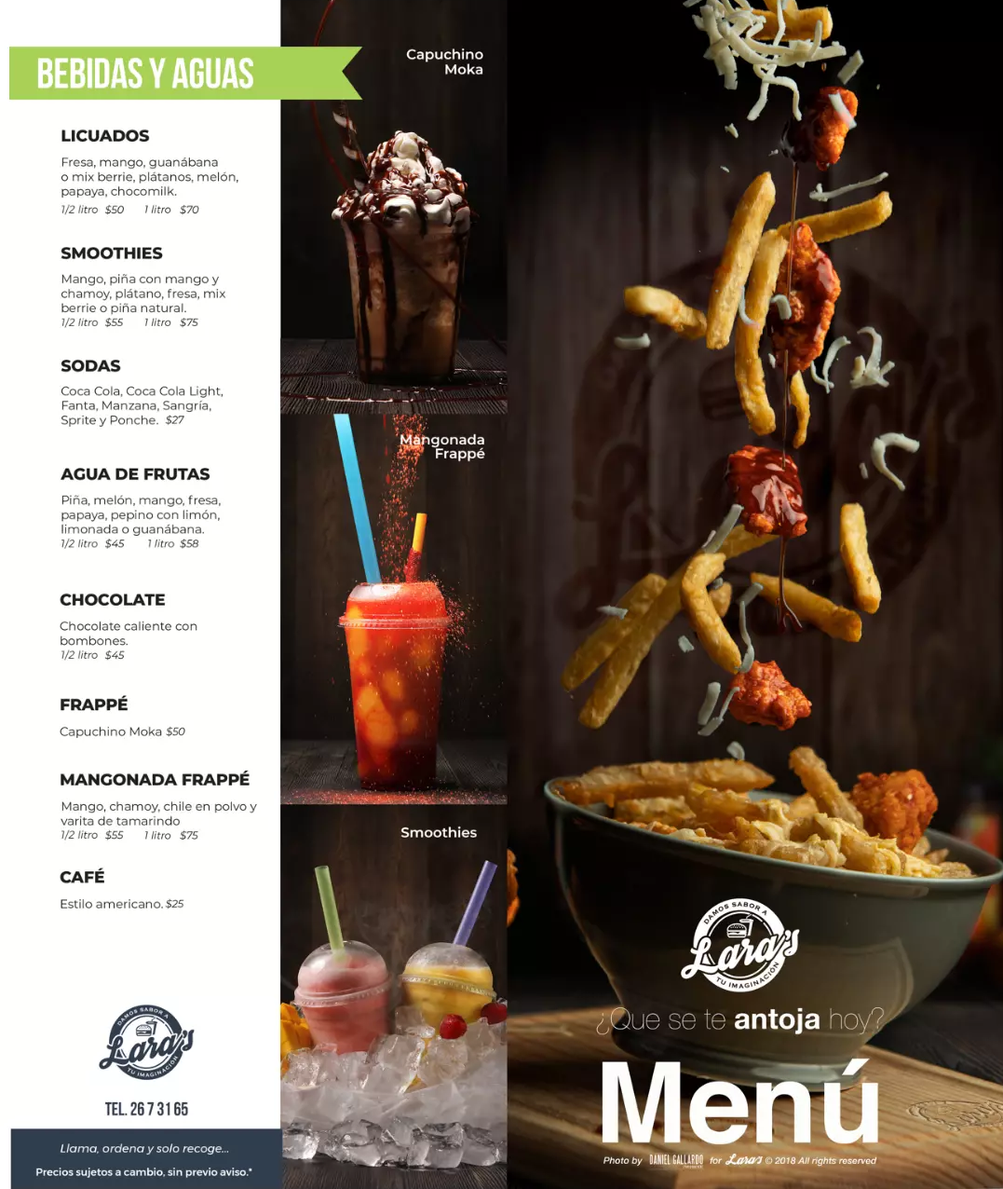
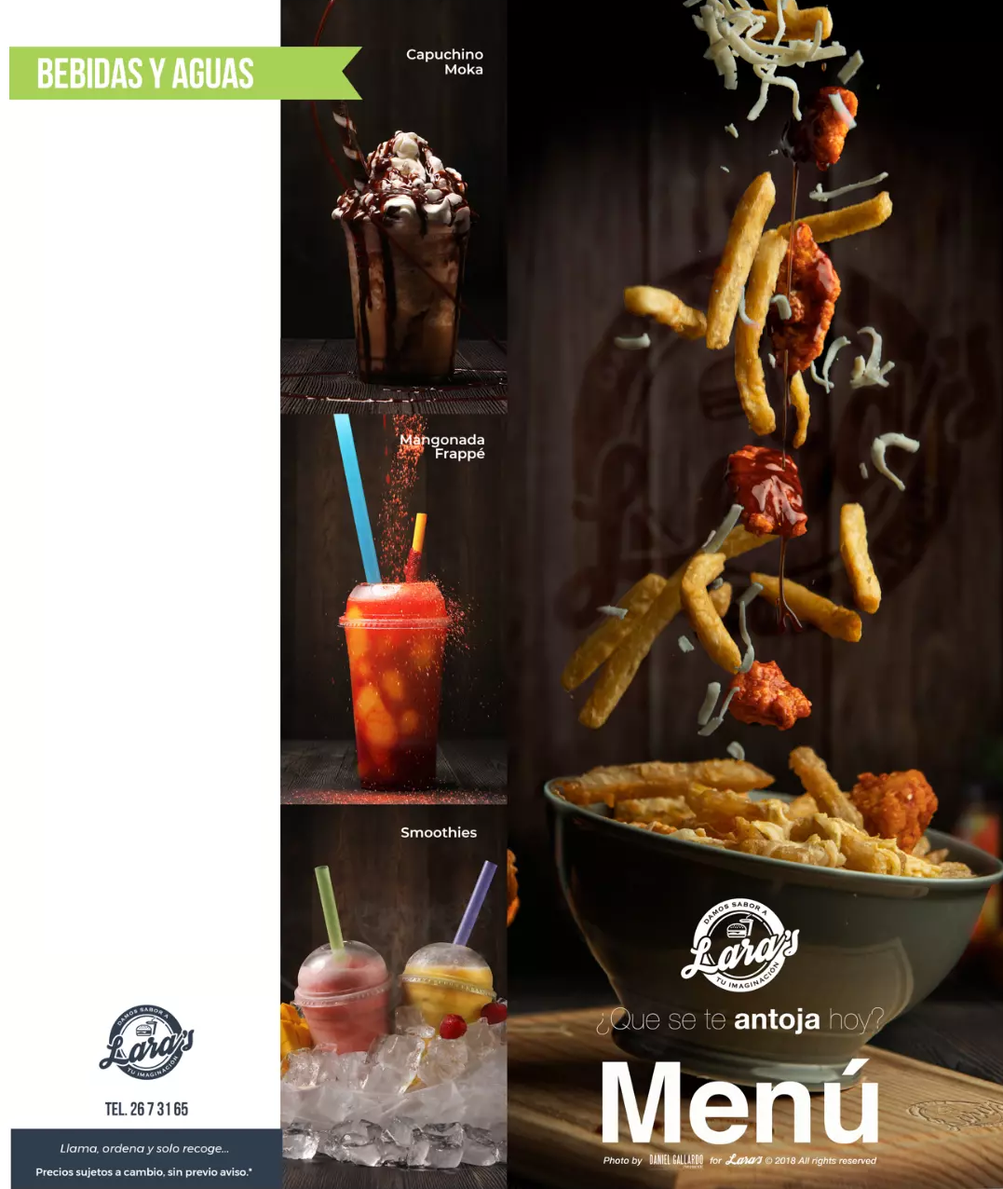
Frontend V3.1 Menu fixed

diff --git a/frontend/src/pages/public/MenuPage.tsx b/frontend/src/pages/public/MenuPage.tsx
@@ -1,99 +1,112 @@
-import React, { useCallback } from 'react';
+import React, { useCallback, useRef, useState, useEffect } from 'react';
 import { Link } from 'react-router-dom';
 import { ArrowLeft, ChevronLeft, ChevronRight, Instagram, Facebook } from 'lucide-react';
 import useEmblaCarousel from 'embla-carousel-react';
 
-// ===== MENU-1: BEBIDAS Y AGUAS (Cyan overlays) =====
+// Container height at 400px width = ~518px. Each 1% = ~5.2px
+// Pattern: 7% gaps (~36px), heights 28-32px, fonts 7px, icons 20px
+
+// ===== MENU-1: BEBIDAS Y AGUAS =====
+// Left column: 13%, 21%, 29%, 37%, 45%, 53%, 61%, 69% (8% gaps = ~41px)
 const bebidasItems = [
-    { id: 'licuados', name: 'LICUADOS', description: 'Fresa, mango, guanábana o mix berrie, plátanos, melón, papaya, chocomilk.\n1/2 litro $50    1 litro $70', top: '14%', left: '5%', width: '22%', height: 'auto', fontSize: '9px' },
-    { id: 'smoothies', name: 'SMOOTHIES', description: 'Mango, piña con mango y chamoy, plátano, fresa, mix berrie o piña natural.\n1/2 litro $55    1 litro $75', top: '23%', left: '5%', width: '22%', height: 'auto', fontSize: '9px' },
-    { id: 'sodas', name: 'SODAS', description: 'Coca Cola, Coca Cola Light, Fanta, Manzana, Sangría, Sprite y Ponche. $27', top: '31.8%', left: '5%', width: '22%', height: 'auto', fontSize: '9px' },
-    { id: 'agua-frutas', name: 'AGUA DE FRUTAS', description: 'Piña, melón, mango, fresa, papaya, pepino con limón, limonada o guanábana.\n1/2 litro $45    1 litro $58', top: '40%', left: '5%', width: '22%', height: 'auto', fontSize: '9px' },
-    { id: 'chocolate', name: 'CHOCOLATE', description: 'Chocolate caliente con bombones.\n1/2 litro $45', top: '49.9%', left: '5%', width: '22%', height: 'auto', fontSize: '9px' },
-    { id: 'frappe', name: 'FRAPPÉ', description: 'Capuchino Moka $50', top: '57%', left: '5%', width: '22%', height: '30px', fontSize: '9px' },
-    { id: 'mangonada-frappe', name: 'MANGONADA FRAPPÉ', description: 'Mango, chamoy, chile en polvo y varita de tamarindo\n1/2 litro $55    1 litro $75', top: '63.6%', left: '5%', width: '22%', height: '55px', fontSize: '9px' },
-    { id: 'cafe', name: 'CAFÉ', description: 'Estilo americano. $25', top: '73%', left: '5%', width: '22%', height: 'auto', fontSize: '9px' },
+    { id: 'licuados', name: 'LICUADOS', description: 'Fresa, mango, guanábana, mix berrie, plátanos, melón, papaya. 1/2L $50 | 1L $70', top: '13%', left: '4%', width: '23%', height: '38px', fontSize: '7px' },
+    { id: 'smoothies', name: 'SMOOTHIES', description: 'Mango, piña con chamoy, plátano, fresa, mix berrie. 1/2L $55 | 1L $75', top: '21%', left: '4%', width: '23%', height: '38px', fontSize: '7px' },
+    { id: 'sodas', name: 'SODAS', description: 'Coca Cola, Fanta, Manzana, Sangría, Sprite, Ponche. $27', top: '29%', left: '4%', width: '23%', height: '32px', fontSize: '7px' },
+    { id: 'agua-frutas', name: 'AGUA DE FRUTAS', description: 'Piña, melón, mango, fresa, papaya, pepino, limonada. 1/2L $45 | 1L $58', top: '37%', left: '4%', width: '23%', height: '38px', fontSize: '7px' },
+    { id: 'chocolate', name: 'CHOCOLATE', description: 'Chocolate caliente con bombones. 1/2L $45', top: '45%', left: '4%', width: '23%', height: '28px', fontSize: '7px' },
+    { id: 'frappe', name: 'FRAPPÉ', description: 'Capuchino Moka $50', top: '53%', left: '4%', width: '23%', height: '24px', fontSize: '7px' },
+    { id: 'mangonada-frappe', name: 'MANGONADA FRAPPÉ', description: 'Mango, chamoy, chile en polvo y tamarindo. 1/2L $55 | 1L $75', top: '60%', left: '4%', width: '23%', height: '40px', fontSize: '7px' },
+    { id: 'cafe', name: 'CAFÉ', description: 'Estilo americano. $25', top: '69%', left: '4%', width: '23%', height: '24px', fontSize: '7px' },
 ];
 
-// ===== MENU-2: SNACKS (Pink overlays) =====
+// ===== MENU-2: SNACKS =====
+// Left column: 12%, 20%, 28%, 36%, 44%, 52%, 60% (8% gaps)
 const snacksItems = [
-    { id: 'sandwich-turkey', name: 'SÁNDWICH \nTURKEY', description: 'Mayonesa, aguacate, tomate, lechuga, jamón de pavo, quesos. $48', top: '12%', left: '2%', width: '23%', height: '43px', fontSize: '8.2px', icon: 'chicken', iconSize: '26px', iconTop: '1px', iconRight: '1px' },
-    { id: 'sandwich-veggie', name: 'SÁNDWICH \nVEGGIE', description: 'Mayonesa, aguacate, tomate, lechuga, bologna, quesos. $55', top: '19.6%', left: '2%', width: '23%', height: '43px', fontSize: '8.5px', icon: 'veggie', iconSize: '26px', iconTop: '1px', iconRight: '1px' },
-    { id: 'sandwich-pollo', name: 'SÁNDWICH \nDE POLLO', description: 'Mayonesa, aguacate, tomate, lechuga, pechuga de pollo marinado especial, quesos. $60', top: '27.3%', left: '2%', width: '23%', height: 'auto', fontSize: '8.5px', icon: 'chicken', iconSize: '26px', iconTop: '1px', iconRight: '1px' },
-    { id: 'sincronizada-res', name: 'SINCRONIZADA \nDE RES/POLLO', description: 'Carne de res salteada con morrón y cebolla, quesos, tortilla de harina. $98', top: '35.5%', left: '2%', width: '23%', height: 'auto', fontSize: '8.5px', icon: 'cow', iconSize: '26px', iconTop: '1px', iconRight: '1px' },
-    { id: 'sincronizada-veg', name: 'SINCRONIZADA \nVEGETARIANA', description: 'Fajita de gluten al jengibre salteada con morrón, cebolla, quesos, tortilla de harina. $115', top: '43.58%', left: '2%', width: '23%', height: 'auto', fontSize: '8.3px', icon: 'veggie', iconSize: '26px', iconTop: '1px', iconRight: '1px' },
-    { id: 'tenders', name: 'TENDERS', description: 'Pechuga de pollo, quesos, papas a la francesa incluye refresco. Elige tu aderezo: Ranch, Búfalo, Laras, Salsa habanera y/o limón. $160', top: '52%', left: '2%', width: '23%', height: '45px', fontSize: '8.5px', icon: 'chicken', iconSize: '26px', iconTop: '1px', iconRight: '1px' },
-    { id: 'boneless-snack', name: 'BONELESS', description: 'Papas a la francesa, \naderezo Ranch, zanahoria y Apio. $125', top: '59.6%', left: '2%', width: '23%', height: 'auto', fontSize: '8.5px', icon: 'chicken', iconSize: '26px', iconTop: '1px', iconRight: '1px' },
+    { id: 'sandwich-turkey', name: 'SÁNDWICH TURKEY', description: 'Mayonesa, aguacate, tomate, lechuga, jamón pavo, quesos. $48', top: '12%', left: '2%', width: '23%', height: '40px', fontSize: '7px', icon: 'chicken', iconSize: '20px' },
+    { id: 'sandwich-veggie', name: 'SÁNDWICH VEGGIE', description: 'Mayonesa, aguacate, tomate, lechuga, bologna, quesos. $55', top: '20%', left: '2%', width: '23%', height: '40px', fontSize: '7px', icon: 'veggie', iconSize: '20px' },
+    { id: 'sandwich-pollo', name: 'SÁNDWICH POLLO', description: 'Mayonesa, aguacate, tomate, lechuga, pechuga pollo, quesos. $60', top: '28%', left: '2%', width: '23%', height: '46px', fontSize: '7px', icon: 'chicken', iconSize: '20px' },
+    { id: 'sincronizada-res', name: 'SINCRONIZADA RES', description: 'Carne de res con morrón, cebolla, quesos, tortilla. $98', top: '35.8%', left: '2%', width: '23%', height: '40px', fontSize: '7px', icon: 'cow', iconSize: '20px' },
+    { id: 'sincronizada-veg', name: 'SINCRONIZADA VEG', description: 'Fajita de gluten al jengibre con morrón, cebolla, quesos. $115', top: '42.3%', left: '2%', width: '23%', height: '40px', fontSize: '7px', icon: 'veggie', iconSize: '20px' },
+    { id: 'tenders', name: 'TENDERS', description: 'Pechuga, quesos, papas, refresco. Aderezo a elegir. $160', top: '49.8%', left: '2%', width: '23%', height: '32px', fontSize: '7px', icon: 'chicken', iconSize: '20px' },
+    { id: 'boneless-snack', name: 'BONELESS', description: 'Papas a la francesa, \naderezo Ranch, zanahoria y Apio. $125', top: '57%', left: '2%', width: '23%', height: '32px', fontSize: '7px', icon: 'chicken', iconSize: '20px' },
 ];
 
-// ===== MENU-2: PAPAS (Blue overlays) =====
+// ===== MENU-2: PAPAS =====
+// Second column: 26%, 34%, 42%, 50%, 58% (8% gaps)
 const papasItems = [
-    { id: 'papas', name: 'PAPAS', description: 'A la francesa naturales. $49\nA la francesa con queso y aderezo Laras. $60', top: '28%', left: '26.5%', width: '22%', height: 'auto', fontSize: '8.6px' },
-    { id: 'beef-bowl', name: 'BEEF BOWL', description: 'Papas a la francesa con queso, aderezo Laras con carne. $115', top: '35.5%', left: '26.5%', width: '22%', height: '40px', fontSize: '8.7px', icon: 'cow', iconSize: '26px', iconTop: '1px', iconRight: '1px' },
-    { id: 'salchipapas', name: 'SALCHIPAPAS', description: 'Papas a la francesa con \nqueso, aderezo Laras con salchicha veggie. $120', top: '43%', left: '26.5%', width: '22%', height: 'auto', fontSize: '8.5px', icon: 'veggie', iconSize: '26px', iconTop: '1px', iconRight: '1px' },
-    { id: 'boneless-bowl', name: 'BONELESS \nBOWL', description: 'Papas a la francesa con queso, aderezo Laras, boneless bañados en salsa búfalo. $140', top: '51%', left: '26.5%', width: '22%', height: '59px', fontSize: '8px', icon: 'chicken', iconSize: '26px', iconTop: '1px', iconRight: '1px' },
-    { id: 'chicken-bowl', name: 'CHICKEN BOWL', description: 'Papas a la francesa con \nqueso, aderezo Laras con \npollo. $115', top: '60.2%', left: '26.5%', width: '22%', height: 'auto', fontSize: '8px', icon: 'chicken', iconSize: '26px', iconTop: '1px', iconRight: '1px' },
+    { id: 'papas', name: 'PAPAS', description: 'Naturales $49 | \nCon queso y aderezo \n$60', top: '27.7%', left: '26%', width: '22%', height: '32px', fontSize: '7px', icon: 'fries', iconSize: '18px' },
+    { id: 'beef-bowl', name: 'BEEF BOWL', description: 'Papas con queso, \naderezo Laras, carne. \n$115', top: '35%', left: '26%', width: '22%', height: '35px', fontSize: '7px', icon: 'cow', iconSize: '20px' },
+    { id: 'salchipapas', name: 'SALCHIPAPAS', description: 'Papas con queso, \naderezo, salchicha veggie. $120', top: '42%', left: '26%', width: '22%', height: '42px', fontSize: '7px', icon: 'veggie', iconSize: '20px' },
+    { id: 'boneless-bowl', name: 'BONELESS BOWL', description: 'Papas con queso, aderezo, boneless búfalo. $140', top: '49.5%', left: '26%', width: '22%', height: '36px', fontSize: '7px', icon: 'chicken', iconSize: '20px' },
+    { id: 'chicken-bowl', name: 'CHICKEN BOWL', description: 'Papas con queso, aderezo Laras, pollo. $115', top: '56.8%', left: '26%', width: '22%', height: '34px', fontSize: '7px', icon: 'chicken', iconSize: '20px' },
 ];
 
-// ===== MENU-2: TORTAS VEGETARIANAS (Green overlays) =====
+// ===== MENU-2: TORTAS VEGETARIANAS (Green) =====
+// Right side: 50%, 60%, 70%, 80% (10% gaps for larger cards)
 const tortasVegItems = [
-    { id: 'milanesa-enchilado', name: 'MILANESA \nDE GLUTEN \nENCHILADO', description: 'Mayonesa, tomate, aguacate, quesos, lechuga y aderezo Laras.\n$115', top: '50%', left: '52.6%', width: '21%', height: '66px', fontSize: '8.3px', icon: 'veggie', iconSize: '26px', iconTop: '1px', iconRight: '1px' },
-    { id: 'milanesa-empanizado', name: 'MILANESA \nDE GLUTEN \nEMPANIZADO', description: 'Mayonesa, tomate, aguacate, quesos, lechuga y aderezo Laras.\n$115', top: '50%', left: '76.3%', width: '20%', height: '63.4px', fontSize: '7.69px', icon: 'veggie', iconSize: '26px', iconTop: '1px', iconRight: '1px' },
-    { id: 'fajita-gluten', name: 'FAJITA \nDE GLUTEN \nAL JENGIBRE', description: 'Mayonesa, tomate, morrón, cebolla, aguacate, quesos, lechuga y aderezo Laras.\n$115', top: '62%', left: '50.052%', width: '29%', height: '74.3px', fontSize: '9px', icon: 'veggie', iconSize: '26px', iconTop: '1px', iconRight: '1px' },
-    { id: 'gluten-pastor', name: 'GLUTEN \nAL PASTOR', description: 'Trocitos de piña, mayonesa, tomate, aguacate, queso, aderezo Laras y cebolla.\n$115', top: '75.4%', left: '50.052%', width: '29%', height: '63px', fontSize: '9px', icon: 'veggie', iconSize: '26px', iconTop: '1px', iconRight: '1px' },
+    { id: 'milanesa-enchilado', name: 'MILANESA GLUTEN ENCHILADO', description: 'Mayonesa, tomate, aguacate, quesos, lechuga. \n$115', top: '50%', left: '52%', width: '23.93%', height: '55px', fontSize: '7px', icon: 'veggie', iconSize: '20px' },
+    { id: 'milanesa-empanizado', name: 'MILANESA GLUTEN EMPANIZADO', description: 'Mayonesa, tomate, aguacate, quesos, lechuga. \n$115', top: '50%', left: '76%', width: '22%', height: '55px', fontSize: '7px', icon: 'veggie', iconSize: '20px' },
+    { id: 'fajita-gluten', name: 'FAJITA GLUTEN JENGIBRE', description: 'Mayonesa, tomate, morrón, cebolla, aguacate, quesos. \n$115', top: '62%', left: '50%', width: '29.5%', height: '63px', fontSize: '8px', icon: 'veggie', iconSize: '20px' },
+    { id: 'gluten-pastor', name: 'GLUTEN AL PASTOR', description: 'Trocitos de piña, mayonesa, \ntomate, aguacate, queso. \n$115', top: '75.3%', left: '50%', width: '29.5%', height: '56px', fontSize: '8px', icon: 'veggie', iconSize: '20px' },
 ];
 
-// ===== MENU-3: HAMBURGUESAS LEFT SIDE (Gray overlays) =====
+// ===== MENU-3: HAMBURGUESAS =====
+// Two columns: 14%, 24%, 34%, 44% and 54%, 64% (10% gaps for content)
 const hamburguesasItems = [
-    { id: 'classic-beef', name: 'CLASSIC BEEF', description: 'Carne de res preparación especial 1/4 de libra, \nmostaza, mayonesa, aguacate, jamón de pavo, mezcla de quesos, tomate, lechuga, pepinillos y aderezo Laras. $98', top: '15%', left: '2%', width: '22%', height: '70px', fontSize: '7.8px', icon: 'cow', iconSize: '26px', iconTop: '1px', iconRight: '1px' },
-    { id: 'classic-veggie', name: 'CLASSIC VEGGIE', description: 'Carne vegetal preparación especial 1/4 de libra, \nmostaza, mayonesa, jamón vegetariano, mezcla de quesos, tomate, lechuga, pepinillos y aderezo Laras. $115', top: '15%', left: '25%', width: '22.3%', height: '70px', fontSize: '7.8px', icon: 'veggie', iconSize: '26px', iconTop: '1px', iconRight: '1px' },
-    { id: 'hamburguesa-doble', name: 'HAMBURGUESA \nDOBLE', description: 'Doble carne de res \npreparación especial 1/4 de libra, mostaza, mayonesa, aguacate, jamón de pavo, mezcla de quesos, tomate, lechuga, pepinillos y aderezo Laras. $125', top: '27%', left: '2%', width: '22.3%', height: '79px', fontSize: '7.8px', icon: 'cow' },
-    { id: 'hamburguesa-doble-veggie', name: 'HAMBURGUESA \nDOBLE VEGGIE', description: 'Doble carne vegetal \npreparación especial 1/4 de libra, mostaza, mayonesa, aguacate, jamón vegetariano, mezcla de quesos, tomate, lechuga, pepinillos y aderezo Laras. $135', top: '27%', left: '25%', width: '22.3%', height: '79px', fontSize: '7.8px', icon: 'veggie', iconSize: '26px', iconTop: '1px', iconRight: '1px' },
-    { id: 'salchi-burguer', name: 'SALCHI-BURGUER', description: 'Carne de res preparación \nespecial 180 gr., mostaza, mayonesa, aguacate, jamón de pavo, salchichas, mezcla de quesos, tomate, lechuga, pepinillos y aderezo Laras. $130', top: '41.6%', left: '2%', width: '22.3%', height: '76px', fontSize: '7.8px', icon: 'cow' },
-    { id: 'salchi-burguer-veggie', name: 'SALCHI-BURGUER \nVEGGIE', description: 'Carne vegetariana preparado \nespecial, salchicha vegetal, mayonesa, mostaza pepinillos, tomate, lechuga, bologna, mezcla de 3 quesos y aderezo Laras. $140', top: '41.6%', left: '25%', width: '22.3%', height: '76px', fontSize: '7.8px', icon: 'veggie', iconSize: '26px', iconTop: '1px', iconRight: '1px' },
-    { id: 'hamburguesa-jalapeno', name: 'HAMBURGUESA \nJALAPEÑO', description: 'Carne de res preparación especial 180 gr., mostaza, mayonesa, aguacate, jamón de pavo, mezcla de quesos, tomate, lechuga, pepinillos y aderezo Laras. $115', top: '55%', left: '2%', width: '22.3%', height: '82px', fontSize: '8px', icon: 'cow' },
-    { id: 'hamburguesa-jalapeno-veggie', name: 'HAMBURGUESA \nJALAPEÑO VEGGIE', description: 'Carne vegetal preparación especial 180 gr., mostaza, mayonesa, aguacate, jamón vegetariano, mezcla de quesos, tomate, lechuga, pepinillos y aderezo Laras. $120', top: '55%', left: '25%', width: '22.3%', height: '82px', fontSize: '8px', icon: 'veggie', iconSize: '26px', iconTop: '1px', iconRight: '1px' },
+    { id: 'classic-beef', name: 'CLASSIC BEEF', description: 'Carne res 1/4 libra, \nmostaza, mayo, aguacate, quesos, tomate. $98', top: '18%', left: '2%', width: '22%', height: '45px', fontSize: '7px', icon: 'cow', iconSize: '20px' },
+    { id: 'classic-veggie', name: 'CLASSIC VEGGIE', description: 'Carne vegetal 1/4 libra, mostaza, mayo, quesos, tomate. $115', top: '18%', left: '25%', width: '22%', height: '45px', fontSize: '7px', icon: 'veggie', iconSize: '20px' },
+    { id: 'hamburguesa-doble', name: 'HAMBURGUESA DOBLE', description: 'Doble carne res, mostaza, mayo, aguacate, quesos. $125', top: '29%', left: '2%', width: '22%', height: '45px', fontSize: '7px', icon: 'cow', iconSize: '20px' },
+    { id: 'hamburguesa-doble-veggie', name: 'HAMBURGUESA DOBLE VEG', description: 'Doble carne vegetal, mostaza, mayo, quesos. $135', top: '29%', left: '25%', width: '22%', height: '45px', fontSize: '7px', icon: 'veggie', iconSize: '20px' },
+    { id: 'salchi-burguer', name: 'SALCHI-BURGUER', description: 'Carne res 180g, salchichas, mostaza, mayo, quesos. $130', top: '40%', left: '2%', width: '22%', height: '45px', fontSize: '7px', icon: 'cow', iconSize: '20px' },
+    { id: 'salchi-burguer-veggie', name: 'SALCHI-BURGUER VEG', description: 'Carne vegetal, salchicha vegetal, quesos. $140', top: '40%', left: '25%', width: '22%', height: '45px', fontSize: '7px', icon: 'veggie', iconSize: '20px' },
+    { id: 'hamburguesa-jalapeno', name: 'HAMBURGUESA JALAPEÑO', description: 'Carne res 180g, jalapeños, mayo, quesos. $115', top: '52%', left: '2%', width: '22%', height: '45px', fontSize: '7px', icon: 'cow', iconSize: '20px' },
+    { id: 'hamburguesa-jalapeno-veggie', name: 'HAMBURGUESA JALAPEÑO VEG', description: 'Carne vegetal 180g, jalapeños, quesos. $120', top: '52%', left: '25%', width: '22%', height: '45px', fontSize: '7px', icon: 'veggie', iconSize: '20px' },
 ];
 
-// ===== MENU-3: PARA LOS AMANTES DE LAS CARNES - RIGHT SIDE (Orange overlays) =====
+// ===== MENU-3: CARNES (Right side - Orange) =====
+// Right column: 38%, 50%, 62%, 74% (12% gaps)
 const carnesItems = [
-    { id: 'chicken-tender', name: 'CHICKEN TENDER \nBURGER', description: 'Tenders empanizados con \nsalsa búfalo, queso, lechuga, tomate y aderezo Laras. $138', top: '38%', left: '52%', width: '24%', height: '57px', fontSize: '8px', icon: 'chicken' },
-    { id: 'hamburguesa-bbq', name: 'HAMBURGUESA \nBBQ', description: 'Carne de res preparación \nespecial 180 gr., aderezada con salsa BBQ especial, mostaza, cebolla a la plancha, mayonesa, aguacate, jamón de pavo, mezcla de quesos, tomate, lechuga, pepinillos y aderezo Laras. $128', top: '47.128667%', left: '52%', width: '24%', height: '100px', fontSize: '8.5px', icon: 'cow' },
-    { id: 'hamburguesa-bbq-veggie', name: 'HAMBURGUESA \nBBQ VEGGIE', description: 'Carne vegetal preparación \nespecial 180 gr., aderezada con salsa BBQ especial, mostaza, mayonesa, aguacate, jamón vegetariano, mezcla de quesos, cebolla a la plancha, tomate, lechuga, pepinillos y aderezo Laras. $130', top: '63.28%', left: '52%', width: '24%', height: '98px', fontSize: '8px', icon: 'veggie', iconSize: '26px', iconTop: '1px', iconRight: '1px' },
-    { id: 'hamburguesa-hawaiana', name: 'HAMBURGUESA \nHAWAIANA', description: 'Carne de res preparación \nespecial 180 gr., rebanada de piña asada, salsa especial de piña, mostaza, mayonesa, aguacate, jamón de pavo, mezcla de quesos, tomate, lechuga y aderezo Laras. $130', top: '79.02%', left: '52%', width: '24%', height: '76px', fontSize: '8px', icon: 'cow' },
+    { id: 'chicken-tender', name: 'CHICKEN TENDER BURGER', description: 'Tenders con salsa búfalo, queso, lechuga, tomate. $138', top: '38%', left: '52%', width: '24%', height: '45px', fontSize: '7px', icon: 'chicken', iconSize: '20px', noBg: true },
+    { id: 'hamburguesa-bbq', name: 'HAMBURGUESA BBQ', description: 'Carne res 180g, salsa BBQ, cebolla, quesos. $128', top: '50%', left: '52%', width: '24%', height: '45px', fontSize: '7px', icon: 'cow', iconSize: '20px', noBg: true },
+    { id: 'hamburguesa-bbq-veggie', name: 'HAMBURGUESA BBQ VEG', description: 'Carne vegetal 180g, salsa BBQ, quesos. $130', top: '62%', left: '52%', width: '24%', height: '45px', fontSize: '7px', icon: 'veggie', iconSize: '20px', noBg: true },
+    { id: 'hamburguesa-hawaiana', name: 'HAMBURGUESA HAWAIANA', description: 'Carne res 180g, piña asada, salsa de piña, quesos. $130', top: '74%', left: '52%', width: '24%', height: '45px', fontSize: '7px', icon: 'cow', iconSize: '20px', noBg: true },
 ];
 
-// ===== MENU-4: TACOS LEFT SIDE (Dark overlays) =====
+// ===== MENU-4: TACOS =====
+// Two columns: 21%, 31% (10% gaps)
 const tacosItems = [
-    { id: 'tacos-res', name: 'TACOS DE \nCARNE DE RES', description: 'Con morrón y cebolla, \ncilantro y tortilla de maíz. $20 c/u', top: '21.8%', left: '2%', width: '23%', height: '55px', fontSize: '8px', icon: 'cow' },
-    { id: 'tacos-veg-enchilados', name: 'TACOS \nVEGETARIANOS \nENCHILADOS', description: 'Gluten enchilado salteado con morrón y cebolla. $25 c/u', top: '21.8%', left: '25%', width: '22%', height: '55px', fontSize: '8px', icon: 'veggie', iconSize: '26px', iconTop: '1px', iconRight: '1px' },
-    { id: 'tacos-vegetarianos', name: 'TACOS \nVEGETARIANOS', description: 'Gluten al jengibre salteado \ncon morrón y cebolla. $25 c/u', top: '32%', left: '2%', width: '22%', height: '55px', fontSize: '8px', icon: 'veggie', iconSize: '26px', iconTop: '1px', iconRight: '1px' },
-    { id: 'tacos-pastor-veggie', name: 'TACOS AL \nPASTOR VEGGIE', description: 'Salteados con trocitos \nde piña y cebolla y tortilla de maíz. $25 c/u', top: '32%', left: '25%', width: '22%', height: '55px', fontSize: '8px', icon: 'veggie', iconSize: '26px', iconTop: '1px', iconRight: '1px' },
+    { id: 'tacos-res', name: 'TACOS DE RES', description: 'Con morrón, cebolla, \ncilantro, tortilla maíz. \n$20 c/u', top: '21%', left: '2%', width: '23%', height: '42px', fontSize: '7px', icon: 'cow', iconSize: '20px' },
+    { id: 'tacos-veg-enchilados', name: 'TACOS VEG ENCHILADOS', description: 'Gluten enchilado con morrón y cebolla. $25 c/u', top: '21%', left: '25%', width: '22%', height: '38px', fontSize: '7px', icon: 'veggie', iconSize: '20px' },
+    { id: 'tacos-vegetarianos', name: 'TACOS VEGETARIANOS', description: 'Gluten al jengibre con morrón y cebolla. $25 c/u', top: '31%', left: '2%', width: '22%', height: '38px', fontSize: '7px', icon: 'veggie', iconSize: '20px' },
+    { id: 'tacos-pastor-veggie', name: 'TACOS AL PASTOR VEG', description: 'Con trocitos de piña, cebolla, tortilla maíz. \n$25 c/u', top: '31%', left: '25%', width: '22%', height: '41px', fontSize: '7px', icon: 'veggie', iconSize: '20px' },
 ];
 
-// ===== MENU-4: TORTAS CON CARNITA (Red overlays) =====
+// ===== MENU-4: TORTAS CON CARNITA =====
+// Left side: 50%, 60%, 70% (10% gaps)
 const tortasCarnitaItems = [
-    { id: 'fajita-beef', name: 'FAJITA BEEF', description: 'Carne de res marinado \nespecial, morrón, cebolla, mayonesa, tomate, aguacate, quesos, lechuga y aderezo Laras. $98', top: '53%', left: '2%', width: '22%', height: '65px', fontSize: '8px', icon: 'cow' },
-    { id: 'chicken-fajita', name: 'CHICKEN FAJITA', description: 'Pechuga de pollo \nmarinado especial, \nmorrón, cebolla, mayonesa, tomate, aguacate, quesos, lechuga y aderezo Laras. $98', top: '53%', left: '25%', width: '22%', height: '65px', fontSize: '8px', icon: 'chicken' },
-    { id: 'arrachera-cheese', name: 'ARRACHERA \nCHEESE STEAK', description: 'Arrachera americana, \nmorrón, cebolla, mayonesa, tomate, aguacate, quesos, lechuga y aderezo Laras. $135', top: '65.4%', left: '0%', width: '26.37%', height: '67px', fontSize: '8px', icon: 'cow' },
+    { id: 'fajita-beef', name: 'FAJITA BEEF', description: 'Carne res marinada, \nmorrón, cebolla, quesos. $98', top: '54%', left: '3.2%', width: '21.4%', height: '40px', fontSize: '7px', icon: 'cow', iconSize: '20px' },
+    { id: 'chicken-fajita', name: 'CHICKEN FAJITA', description: 'Pechuga pollo marinado, morrón, cebolla, quesos. $98', top: '54%', left: '26%', width: '20%', height: '40px', fontSize: '7px', icon: 'chicken', iconSize: '20px' },
+    { id: 'arrachera-cheese', name: 'ARRACHERA CHEESE STEAK', description: 'Arrachera americana, morrón, cebolla, quesos. $135', top: '66%', left: '2%', width: '24%', height: '38px', fontSize: '7px', icon: 'cow', iconSize: '20px' },
 ];
 
-// ===== MENU-4: COMBOS (Purple overlays) =====
+// ===== MENU-4: COMBOS =====
 const combosItems = [
-    { id: 'combo-1', name: 'COMBO #1', description: 'Fajita Beef o Chicken \nFajita, más agua del \ndía y papas. $115', top: '36%', left: '52%', width: '22%', height: 'auto', fontSize: '8.5px', icon: 'cow' },
-    { id: 'combo-2', name: 'COMBO #2', description: 'Torta de Arrachera \nCheese Steak, más \nagua del día y papas. $150', top: '43%', left: '52%', width: '22%', height: '45px', fontSize: '8.5px', icon: 'cow' },
-    { id: 'combo-3', name: 'COMBO #3', description: 'Torta vegetariana, más \nagua del día y papas. $135', top: '50.6%', left: '52%', width: '22%', height: '37.7px', fontSize: '8.5px', icon: 'veggie' },
-    { id: 'combo-4', name: 'COMBO #4', description: 'Sándwich con jamón vegetariano + \nChocomilk. $75', top: '56.7%', left: '52%', width: '22%', height: '43px', fontSize: '8.5px', icon: 'veggie' },
-    { id: 'combo-5', name: 'COMBO #5', description: 'Sincronizada \nvegetariana, más agua \ndel día y papas. $135', top: '36%', left: '74.5%', width: '22%', height: '43.4px', fontSize: '8.5px', icon: 'veggie' },
-    { id: 'combo-6', name: 'COMBO #6', description: 'Sincronizada de Res o \nPollo, más agua del día y papas. $115', top: '42.8%', left: '74.5%', width: '22%', height: '45.5px', fontSize: '8.5px', icon: 'cow' },
-    { id: 'combo-7', name: 'COMBO #7', description: 'Arma tu combo: Elige \ntu hamburguesa (el precio \nmarcado en el menú) + $15 y llévate una soda.', top: '50.3%', left: '74.5%', width: '22%', height: '49px', fontSize: '8.5px', icon: 'veggie' },
-    { id: 'combo-8', name: 'COMBO #8', description: 'Sándwich de jamón de \npavo + Chocomilk. $70', top: '58%', left: '74.5%', width: '22%', height: 'auto', fontSize: '8.5px', icon: 'veggie' },
-    { id: 'combo-9', name: 'COMBO #9', description: 'Sándwich de pollo + Chocomilk. $90', top: '62.9%', left: '74.5%', width: '22%', height: 'auto', fontSize: '8.5px', icon: 'cow' },
+    // Left column: 35%, 42%, 49%, 56% (7% gaps = ~36px each)
+    { id: 'combo-1', name: 'COMBO #1', description: 'Fajita Beef o Chicken + \nagua + papas. $115', top: '35%', left: '52%', width: '22%', height: '32px', fontSize: '7px', icon: 'cow', iconSize: '20px' },
+    { id: 'combo-2', name: 'COMBO #2', description: 'Arrachera Cheese \nSteak + agua + papas. \n$150', top: '42%', left: '52%', width: '22%', height: '32px', fontSize: '7px', icon: 'cow', iconSize: '20px' },
+    { id: 'combo-3', name: 'COMBO #3', description: 'Torta vegetariana + \nagua + papas. $135', top: '49%', left: '52%', width: '22%', height: '32px', fontSize: '7px', icon: 'veggie', iconSize: '20px' },
+    { id: 'combo-4', name: 'COMBO #4', description: 'Sándwich vegetariano \n+ Chocomilk. $75', top: '56%', left: '52%', width: '22%', height: '32px', fontSize: '7px', icon: 'veggie', iconSize: '20px' },
+    // Right column: 35%, 42%, 49%, 56%, 63% (7% gaps = ~36px each)
+    { id: 'combo-5', name: 'COMBO #5', description: 'Sincronizada vegetariana + \nagua + papas. $135', top: '35%', left: '75%', width: '23%', height: '32px', fontSize: '7px', icon: 'veggie', iconSize: '20px' },
+    { id: 'combo-6', name: 'COMBO #6', description: 'Sincronizada Res/Pollo + \nagua + papas. $115', top: '42%', left: '75%', width: '23%', height: '32px', fontSize: '7px', icon: 'cow', iconSize: '20px' },
+    { id: 'combo-7', name: 'COMBO #7', description: 'Tu hamburguesa + $15 = soda.', top: '49%', left: '75%', width: '23%', height: '32px', fontSize: '7px', icon: 'veggie', iconSize: '20px' },
+    { id: 'combo-8', name: 'COMBO #8', description: 'Sándwich pavo + \nChocomilk. $70', top: '56%', left: '75%', width: '23%', height: '28px', fontSize: '7px', icon: 'veggie', iconSize: '20px' },
+    { id: 'combo-9', name: 'COMBO #9', description: 'Sándwich pollo + \nChocomilk. $90', top: '62%', left: '75%', width: '23%', height: '28px', fontSize: '7px', icon: 'cow', iconSize: '20px' },
 ];
 
-// ===== MENU-4: SALSAS (Yellow overlays) =====
+// ===== MENU-4: SALSAS =====
 const salsasItems = [
-    { id: 'salsa', name: '', description: 'Salsa extra $10', top: '93.06%', left: '68.5%', width: '18%', height: 'auto', fontSize: '6px' },
+    { id: 'salsa', name: '', description: 'Salsa extra $10', top: '93.05%', left: '68%', width: '12%', height: '8px', fontSize: '6px', noBg: true, whiteText: true },
 ];
 
 // Menu pages configuration (reversed order: 4, 3, 2, 1)
@@ -107,6 +120,11 @@ const menuPages = [
 const MenuPage: React.FC = () => {
     const [emblaRef, emblaApi] = useEmblaCarousel({ loop: false, align: 'center', containScroll: false });
     const [selectedIndex, setSelectedIndex] = React.useState(0);
+
+    // Reference width at which overlays were designed (adjust if needed)
+    const REFERENCE_WIDTH = 400;
+    const [scale, setScale] = useState(1);
+    const menuCardRef = useRef<HTMLDivElement>(null);
 
     const scrollPrev = useCallback(() => {
         if (emblaApi) emblaApi.scrollPrev();
@@ -128,23 +146,42 @@ const MenuPage: React.FC = () => {
         return () => { emblaApi.off('select', onSelect); };
     }, [emblaApi]);
 
-    // Render overlay helper - each item can have: width, height, fontSize, icon
-    // Put price in the description string for full control
-    // icon: name of icon file in /images/food-icons/ (without extension)
-    // textColor: 'white' for light text on dark backgrounds
+    // Calculate scale factor based on container width
+    useEffect(() => {
+        const updateScale = () => {
+            if (menuCardRef.current) {
+                const width = menuCardRef.current.offsetWidth;
+                setScale(width / REFERENCE_WIDTH);
+            }
+        };
+
+        updateScale();
+
+        const resizeObserver = new ResizeObserver(updateScale);
+        if (menuCardRef.current) {
+            resizeObserver.observe(menuCardRef.current);
+        }
+
+        window.addEventListener('resize', updateScale);
+        return () => {
+            resizeObserver.disconnect();
+            window.removeEventListener('resize', updateScale);
+        };
+    }, []);
+
+    // Simple overlay renderer - no scaling needed here, parent uses CSS transform
     const renderOverlay = (item: any, bgColor: string, defaultWidth: string = '20%', textColor: string = 'dark') => (
         <div
             key={item.id}
-            className={`absolute ${bgColor} px-1 py-0.5`}
+            className={`absolute ${item.noBg ? '' : bgColor} px-1 py-0.5`}
             style={{
                 top: item.top,
                 left: item.left,
                 width: item.width || defaultWidth,
                 height: item.height || 'auto',
-                minHeight: item.minHeight || 'auto'
+                overflow: 'hidden', // Prevent text overflow beyond fixed heights
             }}
         >
-            {/* Food icon - customize with iconSize, iconTop, iconRight */}
             {item.icon && (
                 <img
                     src={`/images/food-icons/${item.icon}.png`}
@@ -159,7 +196,7 @@ const MenuPage: React.FC = () => {
                 />
             )}
             <h3
-                className={`font-black uppercase tracking-wide leading-tight ${textColor === 'white' ? 'text-white' : 'text-stone-900'}`}
+                className={`font-black uppercase tracking-wide leading-tight ${item.whiteText || textColor === 'white' ? 'text-white' : 'text-stone-900'}`}
                 style={{ fontSize: item.fontSize || '9px', paddingRight: item.icon ? '22px' : '0' }}
             >
                 {item.name.split('\n').map((line: string, i: number) => (
@@ -171,7 +208,7 @@ const MenuPage: React.FC = () => {
             </h3>
             {item.description && (
                 <p
-                    className={`leading-tight ${textColor === 'white' ? 'text-white/90' : 'text-stone-700'}`}
+                    className={`leading-tight ${item.whiteText || textColor === 'white' ? 'text-white/90' : 'text-stone-700'}`}
                     style={{ fontSize: item.fontSize ? `calc(${item.fontSize} * 0.78)` : '7px' }}
                 >
                     {item.description.split('\n').map((line: string, i: number) => (
@@ -182,6 +219,20 @@ const MenuPage: React.FC = () => {
                     ))}
                 </p>
             )}
+        </div>
+    );
+
+    // Wrapper component that applies CSS transform scale to all overlays
+    const ScaledOverlayContainer: React.FC<{ children: React.ReactNode }> = ({ children }) => (
+        <div
+            className="absolute inset-0 origin-top-left"
+            style={{
+                width: `${REFERENCE_WIDTH}px`,
+                height: `${REFERENCE_WIDTH * (11 / 8.5)}px`, // Match aspect ratio 8.5/11
+                transform: `scale(${scale})`,
+            }}
+        >
+            {children}
         </div>
     );
 
@@ -233,11 +284,12 @@ const MenuPage: React.FC = () => {
                         {menuPages.map((page, index) => (
                             <div
                                 key={page.id}
-                                className={`flex-[0_0_80%] md:flex-[0_0_55%] lg:flex-[0_0_40%] min-w-0 px-4 transition-all duration-300 ${selectedIndex === index ? 'opacity-100 scale-100' : 'opacity-40 scale-95'
+                                className={`flex-[0_0_95%] md:flex-[0_0_70%] lg:flex-[0_0_50%] min-w-0 px-2 md:px-4 transition-all duration-300 ${selectedIndex === index ? 'opacity-100 scale-100' : 'opacity-40 scale-95'
                                     }`}
                             >
                                 <div
-                                    className={`relative bg-white shadow-2xl mx-auto transition-shadow duration-300 ${selectedIndex === index ? 'shadow-2xl shadow-black/50' : 'shadow-lg'
+                                    ref={index === 0 ? menuCardRef : undefined}
+                                    className={`relative bg-white shadow-2xl mx-auto transition-shadow duration-300 touch-manipulation ${selectedIndex === index ? 'shadow-2xl shadow-black/50' : 'shadow-lg'
                                         }`}
                                     style={{ aspectRatio: '8.5/11' }}
                                 >
@@ -245,36 +297,36 @@ const MenuPage: React.FC = () => {
 
                                     {/* MENU 1: Bebidas - White */}
                                     {page.id === 1 && (
-                                        <div className="absolute inset-0">
+                                        <ScaledOverlayContainer>
                                             {bebidasItems.map(item => renderOverlay(item, 'bg-white', '22%'))}
-                                        </div>
+                                        </ScaledOverlayContainer>
                                     )}
 
                                     {/* MENU 2: Snacks, Papas, Tortas Veg */}
                                     {page.id === 2 && (
-                                        <div className="absolute inset-0">
+                                        <ScaledOverlayContainer>
                                             {snacksItems.map(item => renderOverlay(item, 'bg-white', '18%'))}
                                             {papasItems.map(item => renderOverlay(item, 'bg-white', '18%'))}
                                             {tortasVegItems.map(item => renderOverlay(item, 'bg-[rgb(68,118,74)]', '20%', 'white'))}
-                                        </div>
+                                        </ScaledOverlayContainer>
                                     )}
 
                                     {/* MENU 3: Hamburguesas, Carnes */}
                                     {page.id === 3 && (
-                                        <div className="absolute inset-0">
+                                        <ScaledOverlayContainer>
                                             {hamburguesasItems.map(item => renderOverlay(item, 'bg-white', '22%'))}
                                             {carnesItems.map(item => renderOverlay(item, 'bg-[rgb(192,111,54)]', '22%', 'white'))}
-                                        </div>
+                                        </ScaledOverlayContainer>
                                     )}
 
                                     {/* MENU 4: Tacos, Tortas, Combos, Salsas */}
                                     {page.id === 4 && (
-                                        <div className="absolute inset-0">
+                                        <ScaledOverlayContainer>
                                             {tacosItems.map(item => renderOverlay(item, 'bg-white', '22%'))}
                                             {tortasCarnitaItems.map(item => renderOverlay(item, 'bg-white', '22%'))}
                                             {combosItems.map(item => renderOverlay(item, 'bg-white', '22%'))}
                                             {salsasItems.map(item => renderOverlay(item, 'bg-white', '18%'))}
-                                        </div>
+                                        </ScaledOverlayContainer>
                                     )}
                                 </div>
                             </div>

diff --git a/frontend/src/components/ui/avatar.tsx b/frontend/src/components/ui/avatar.tsx
@@ -24,6 +24,7 @@ const AvatarImage = React.forwardRef<
 >(({ className, ...props }, ref) => (
     <AvatarPrimitive.Image
         ref={ref}
+        referrerPolicy="no-referrer"
         className={cn("aspect-square h-full w-full", className)}
         {...props}
     />
